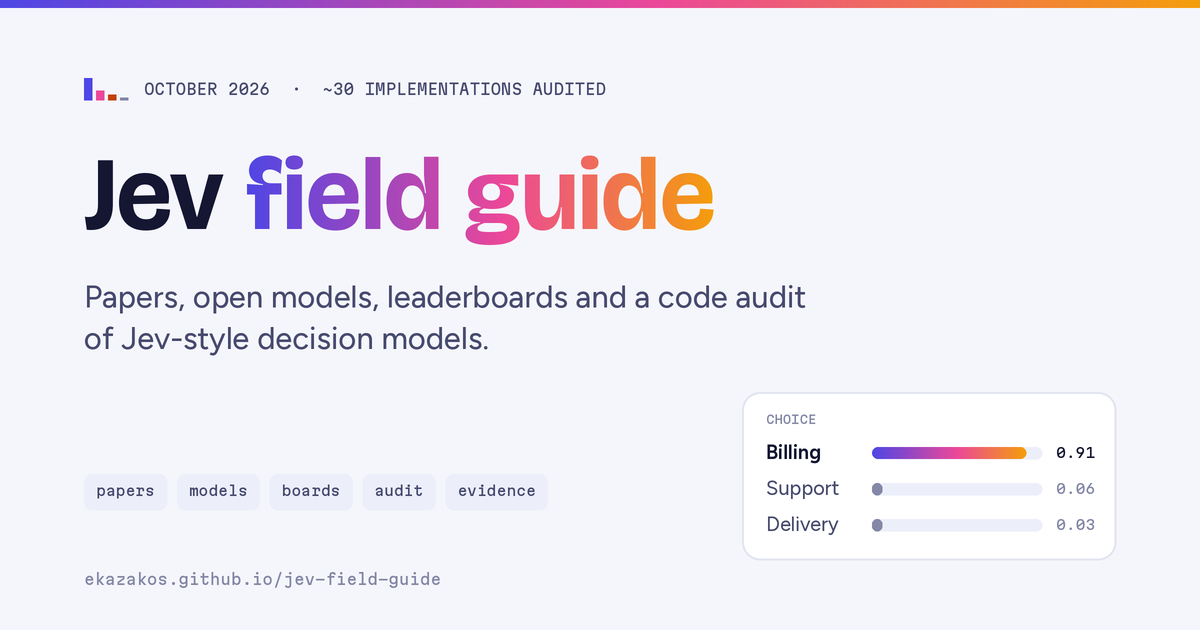
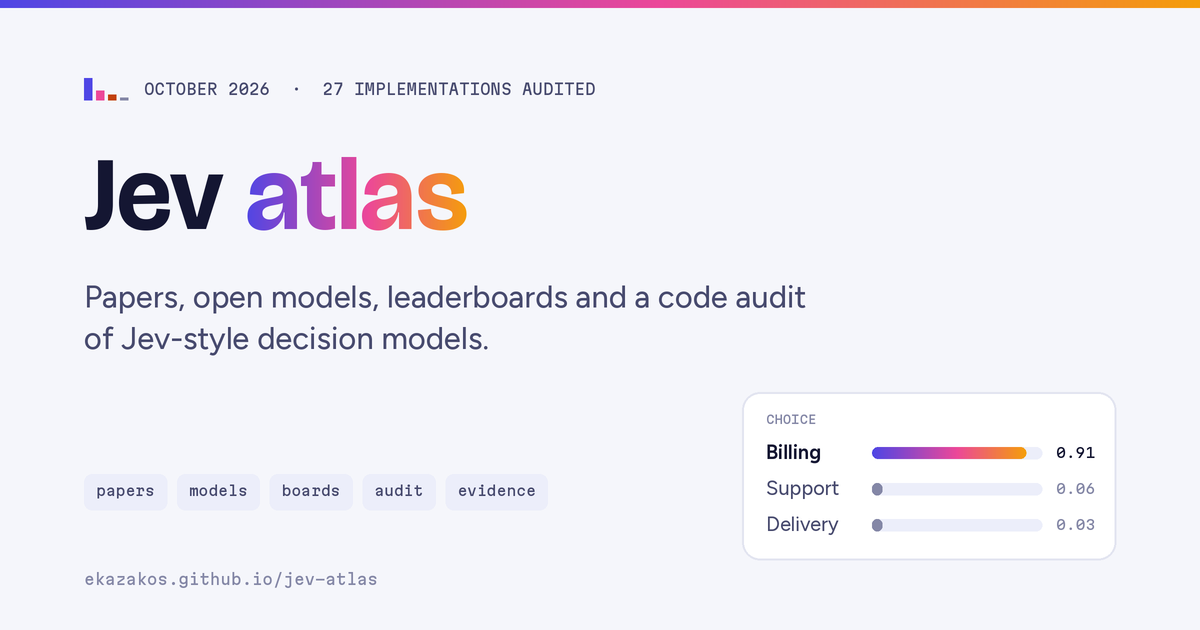
Rename to Jev Atlas (new URL ekazakos.github.io/jev-atlas)
Claude-Session: https://claude.ai/code/session_01D4QHKUtNf3uFK5cjyGefw2

Changed region(s): [[0.185, 0.2413, 0.6167, 0.3921], [0.2467, 0.1206, 0.5242, 0.1508], [0.2775, 0.9048, 0.37, 0.9349]]

diff --git a/index.html b/index.html
@@ -3,22 +3,22 @@
 <head>
 <meta charset="utf-8">
 <meta name="viewport" content="width=device-width, initial-scale=1, viewport-fit=cover">
-<title>Jev Field Guide</title>
-<meta name="description" content="A field guide to Jev-style decision models (October 2026): text and vision papers, open models, leaderboards, a code audit of 27 implementations, and the evidence on head design.">
-<link rel="canonical" href="https://ekazakos.github.io/jev-field-guide/">
+<title>Jev Atlas</title>
+<meta name="description" content="An atlas of Jev-style decision models (October 2026): text and vision papers, open models, leaderboards, a code audit of 27 implementations, and the evidence on head design.">
+<link rel="canonical" href="https://ekazakos.github.io/jev-atlas/">
 <meta property="og:type" content="website">
-<meta property="og:site_name" content="Jev Field Guide">
-<meta property="og:title" content="Jev Field Guide">
+<meta property="og:site_name" content="Jev Atlas">
+<meta property="og:title" content="Jev Atlas">
 <meta property="og:description" content="Papers, open models, leaderboards and a code audit of 27 implementations of Jev-style decision models (October 2026).">
-<meta property="og:url" content="https://ekazakos.github.io/jev-field-guide/">
-<meta property="og:image" content="https://ekazakos.github.io/jev-field-guide/og.png">
+<meta property="og:url" content="https://ekazakos.github.io/jev-atlas/">
+<meta property="og:image" content="https://ekazakos.github.io/jev-atlas/og.png">
 <meta property="og:image:width" content="1200">
 <meta property="og:image:height" content="630">
-<meta property="og:image:alt" content="Jev field guide: a decision card showing Billing chosen with probability 0.91">
+<meta property="og:image:alt" content="Jev Atlas: a decision card showing Billing chosen with probability 0.91">
 <meta name="twitter:card" content="summary_large_image">
-<meta name="twitter:title" content="Jev Field Guide">
+<meta name="twitter:title" content="Jev Atlas">
 <meta name="twitter:description" content="Papers, open models, leaderboards and a code audit of 27 implementations of Jev-style decision models (October 2026).">
-<meta name="twitter:image" content="https://ekazakos.github.io/jev-field-guide/og.png">
+<meta name="twitter:image" content="https://ekazakos.github.io/jev-atlas/og.png">
 <style>:root{color-scheme:light;padding-top:env(safe-area-inset-top,0px);padding-bottom:env(safe-area-inset-bottom,0px)}body{margin:0}img{max-width:100%}[hidden]{display:none!important}</style>
 
 <link rel="preconnect" href="https://fonts.googleapis.com">
@@ -424,7 +424,7 @@ footer.site a { color: var(--ink-muted); border: none; }
 
 <header class="topbar">
   <div class="container topbar-inner">
-    <a class="brand" href="#top">Jev <i>field guide</i></a>
+    <a class="brand" href="#top">Jev <i>atlas</i></a>
     <nav class="nav" aria-label="Sections"><a href="#jev">Jev</a><span class="nav-sep" aria-hidden="true"></span><a href="#text">Text</a><a href="#vision">Vision</a><span class="nav-sep" aria-hidden="true"></span><a href="#models">Models</a><a href="#boards">Boards</a><a href="#hubs">Browse</a><span class="nav-sep" aria-hidden="true"></span><a href="#audit">Audit</a><a href="#evidence">Evidence</a><a href="#rl">RL</a></nav>
   </div>
 </header>
@@ -745,7 +745,7 @@ footer.site a { color: var(--ink-muted); border: none; }
 <footer class="site">
   <div class="container">
     <div class="grule"></div>
-    <span>Jev field guide · compiled 15–16 Oct 2026 · <a href="https://ekazakos.github.io/">Vangelis Kazakos ↗</a> · <a href="#top">↑ top</a></span>
+    <span>Jev atlas · compiled 15–16 Oct 2026 · <a href="https://ekazakos.github.io/">Vangelis Kazakos ↗</a> · <a href="#top">↑ top</a></span>
     <span>Numbers as reported by each source; stars as of 15 Oct 2026 · boards 16 Oct (jev-bench chart 2 Oct) · arXiv search 19 Sep – 14 Oct</span>
     <span><span class="self"></span> marks scores, rankings and measured effects taken from a README, model card, notes or self-report rather than a paper table.</span>
   </div>
